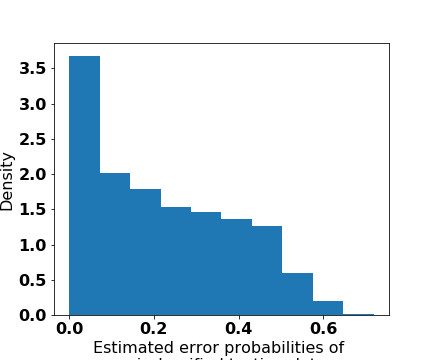
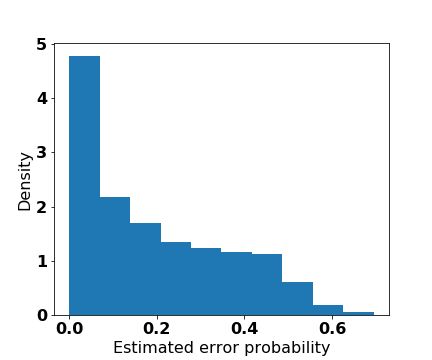
new figures

diff --git a/python/ssl_mar/plot.py b/python/ssl_mar/plot.py
@@ -129,7 +129,7 @@ def plot_test(z_test, y_test_hat, y_test, pe_test):
     plt.xlim([-6, 6])
     plt.ylim([-6, 6])
 #    plt.title('Estimated error probability')
-    plt.savefig("estimated_pe.png")
+    plt.savefig("estimated_pe_2.png")
     
 #    z_test_errors = z_test[index_errors, :]
 #    plt.figure(figsize=(6, 5))
@@ -146,7 +146,7 @@ def plot_test(z_test, y_test_hat, y_test, pe_test):
     plt.hist(pe_test[index_errors[0]], density=True)
     plt.xlabel("Estimated error probability")
     plt.ylabel("Density")
-    plt.savefig("density_pe.png")
+    plt.savefig("density_pe_2.png")
     
 def plot_topn_pe(x_test, z_test, y_test_hat, y_test, pe_test, decoder, topn):
     n = topn  # Top error probalities

diff --git a/python/ssl_mar/ssl_mar.py b/python/ssl_mar/ssl_mar.py
@@ -108,8 +108,8 @@ my_plt.plot_maxlrt(z_unlabeled, lrt_y)
 
 # Sampling from the posterior
 #y_unlabeled_hat = data.sampling_posterior_1(ll_y)
-y_unlabeled_hat = data.sampling_posterior_2(ll_y, lrt_y)
-#y_unlabeled_hat, _ = data.mle(ll_y)
+#y_unlabeled_hat = data.sampling_posterior_2(ll_y, lrt_y)
+y_unlabeled_hat, _ = data.mle(ll_y)
 #my_plt.plot_samples(z_unlabeled, y_unlabeled_hat, y_unlabeled)
 
 # GMM for labeled data + samples from posterior of each class
